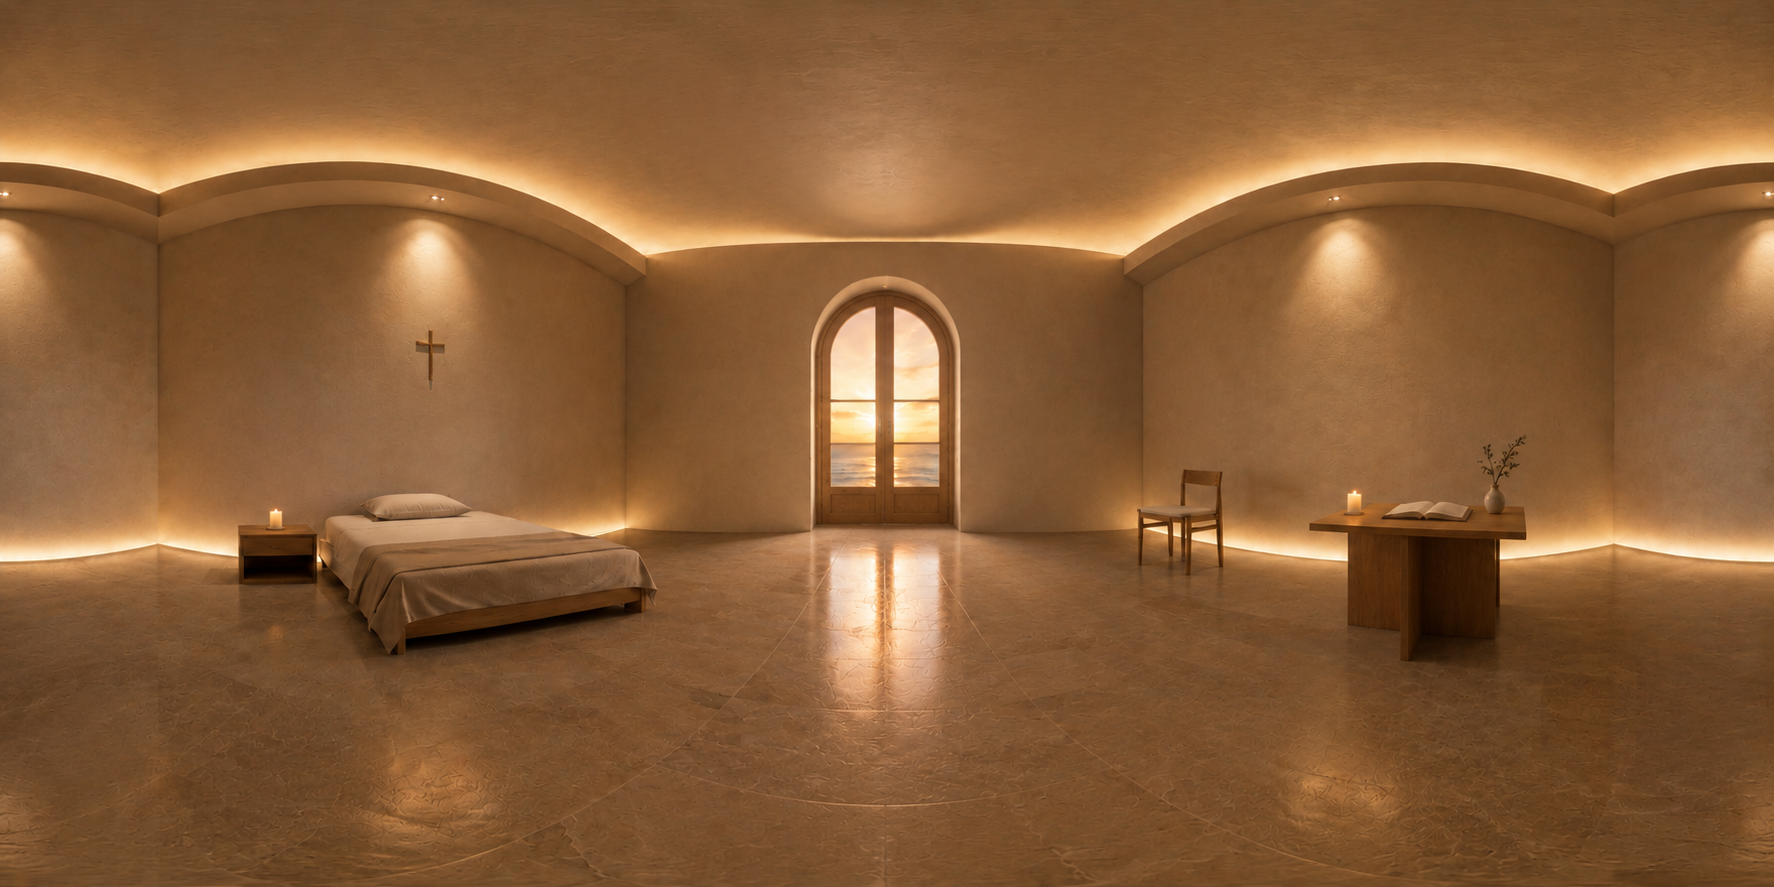
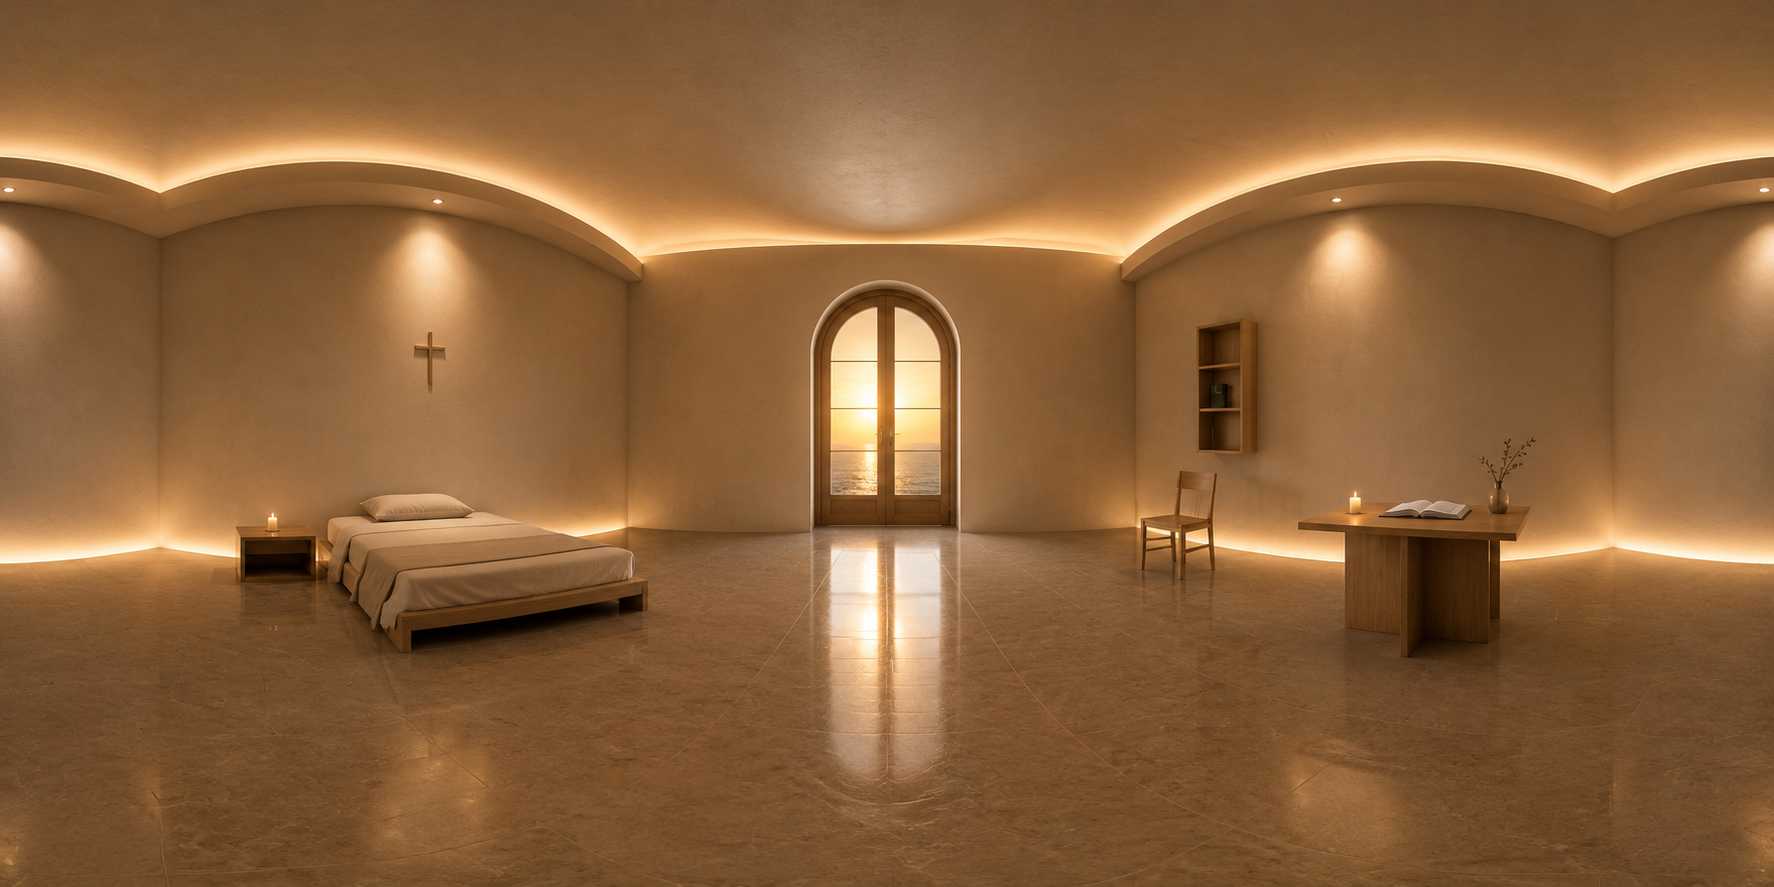
Add room catechism hotspot and rosary guide

diff --git a/src/pages/RosaryPage.tsx b/src/pages/RosaryPage.tsx
@@ -5,20 +5,93 @@ import ScreenContainer from '../components/ScreenContainer'
 import { SoftCard } from '../components/SoftCard'
 import { PrimaryButton } from '../components/PrimaryButton'
 
+type MysterySetKey = 'joyful' | 'sorrowful' | 'glorious' | 'luminous'
+
+const MYSTERY_SETS: Record<
+  MysterySetKey,
+  {
+    title: string
+    dayLabel: string
+    mysteries: string[]
+  }
+> = {
+  joyful: {
+    title: 'Joyful Mysteries',
+    dayLabel: 'Monday and Saturday',
+    mysteries: [
+      'The Annunciation',
+      'The Visitation',
+      'The Nativity',
+      'The Presentation',
+      'The Finding of Jesus in the Temple',
+    ],
+  },
+  sorrowful: {
+    title: 'Sorrowful Mysteries',
+    dayLabel: 'Tuesday and Friday',
+    mysteries: [
+      'The Agony in the Garden',
+      'The Scourging at the Pillar',
+      'The Crowning with Thorns',
+      'The Carrying of the Cross',
+      'The Crucifixion',
+    ],
+  },
+  glorious: {
+    title: 'Glorious Mysteries',
+    dayLabel: 'Wednesday and Sunday',
+    mysteries: [
+      'The Resurrection',
+      'The Ascension',
+      'The Descent of the Holy Spirit',
+      'The Assumption of Mary',
+      'The Coronation of Mary',
+    ],
+  },
+  luminous: {
+    title: 'Luminous Mysteries',
+    dayLabel: 'Thursday',
+    mysteries: [
+      'The Baptism of Jesus',
+      'The Wedding at Cana',
+      'The Proclamation of the Kingdom',
+      'The Transfiguration',
+      'The Institution of the Eucharist',
+    ],
+  },
+}
+
 const ROSARY_STEPS = [
-  'Begin with the Sign of the Cross.',
-  'Offer the intention of your prayer.',
+  'Make the Sign of the Cross and offer your intention.',
   'Pray the Apostles’ Creed.',
-  'Say the Our Father.',
-  'Pray three Hail Marys.',
-  'Announce the first mystery and continue.',
+  'Pray the Our Father.',
+  'Pray three Hail Marys for faith, hope, and charity.',
+  'Pray the Glory Be.',
+  'Pray the first decade with its mystery.',
+  'Continue through the remaining decades.',
+  'Conclude with the Hail Holy Queen and final prayers.',
 ]
+
+const OPENING_PRAYERS = ['Sign of the Cross', 'Apostles’ Creed', 'Our Father', 'Three Hail Marys', 'Glory Be']
+const CLOSING_PRAYERS = ['Hail Holy Queen', 'Final prayer for the Church and the faithful departed', 'Sign of the Cross']
+
+function getMysterySetForToday(): MysterySetKey {
+  const day = new Date().getDay()
+  if (day === 1 || day === 6) return 'joyful'
+  if (day === 2 || day === 5) return 'sorrowful'
+  if (day === 3 || day === 0) return 'glorious'
+  return 'luminous'
+}
 
 export default function RosaryPage() {
   const navigate = useNavigate()
   const [step, setStep] = useState(0)
+  const [mysterySet, setMysterySet] = useState<MysterySetKey>(getMysterySetForToday())
 
   const stepText = useMemo(() => ROSARY_STEPS[Math.min(step, ROSARY_STEPS.length - 1)], [step])
+  const activeMysteries = MYSTERY_SETS[mysterySet]
+  const decadeNumber = Math.min(Math.max(step - 5, 0), 4)
+  const activeMystery = activeMysteries.mysteries[decadeNumber]
 
   return (
     <ScreenContainer>
@@ -45,14 +118,63 @@ export default function RosaryPage() {
           <div className="mt-5 space-y-2 text-center">
             <h1 className="serif text-2xl tracking-wide text-[#e7cba9]">Rosary</h1>
             <p className="mx-auto max-w-xs text-sm leading-6 text-[#c6a47a]">
-              A simple prayer guide you can step through at your own pace.
+              A full guided rosary with the day-based mystery sets and the core prayer flow.
             </p>
           </div>
 
           <SoftCard className="mt-8 space-y-4">
             <div className="space-y-2">
-              <p className="text-xs uppercase tracking-[0.28em] text-white/45">Step {step + 1}</p>
+              <p className="text-xs uppercase tracking-[0.28em] text-white/45">Choose Mysteries</p>
+              <div className="grid grid-cols-2 gap-2">
+                {(Object.keys(MYSTERY_SETS) as MysterySetKey[]).map((key) => {
+                  const set = MYSTERY_SETS[key]
+                  const isActive = mysterySet === key
+
+                  return (
+                    <button
+                      key={key}
+                      type="button"
+                      onClick={() => {
+                        setMysterySet(key)
+                        setStep(5)
+                      }}
+                      className={`rounded-2xl border px-3 py-3 text-left transition ${
+                        isActive
+                          ? 'border-[#e7cba9]/40 bg-[#e7cba9]/10 text-[#e7cba9]'
+                          : 'border-white/10 bg-white/5 text-white/75 hover:bg-white/10'
+                      }`}
+                    >
+                      <div className="serif text-base">{set.title}</div>
+                      <div className="mt-1 text-[11px] uppercase tracking-[0.2em] text-white/45">{set.dayLabel}</div>
+                    </button>
+                  )
+                })}
+              </div>
+            </div>
+
+            <div className="rounded-2xl border border-white/10 bg-white/5 p-4">
+              <p className="text-xs uppercase tracking-[0.28em] text-white/45">Today&apos;s Suggestion</p>
+              <p className="serif mt-2 text-xl text-white">{activeMysteries.title}</p>
+              <p className="mt-1 text-sm text-white/65">{activeMysteries.dayLabel}</p>
+            </div>
+          </SoftCard>
+
+          <SoftCard className="mt-4 space-y-4">
+            <div className="space-y-2">
+              <p className="text-xs uppercase tracking-[0.28em] text-white/45">
+                Step {step + 1} of {ROSARY_STEPS.length}
+              </p>
               <p className="serif text-2xl text-white">{stepText}</p>
+              {step === 5 ? (
+                <p className="text-sm leading-6 text-white/65">
+                  Pray the first decade while meditating on {activeMystery}.
+                </p>
+              ) : null}
+              {step > 5 && step < 10 ? (
+                <p className="text-sm leading-6 text-white/65">
+                  Pray decade {decadeNumber + 1} with {activeMystery}.
+                </p>
+              ) : null}
             </div>
 
             <div className="flex gap-3">
@@ -69,13 +191,46 @@ export default function RosaryPage() {
               >
                 Next
               </PrimaryButton>
+              <PrimaryButton onClick={() => setStep(0)} className="flex-1">
+                Restart
+              </PrimaryButton>
             </div>
           </SoftCard>
 
-          <div className="mt-4 rounded-3xl border border-white/10 bg-white/[0.05] p-5 backdrop-blur-xl shadow-soft">
-            <p className="text-sm leading-7 text-white/70">
-              Keep going at your own pace. This page can later be expanded with mysteries, meditations, and audio.
-            </p>
+          <div className="mt-4 space-y-4 rounded-3xl border border-white/10 bg-white/[0.05] p-5 backdrop-blur-xl shadow-soft">
+            <div className="space-y-2">
+              <p className="text-xs uppercase tracking-[0.28em] text-white/45">Opening Prayers</p>
+              <div className="space-y-2">
+                {OPENING_PRAYERS.map((prayer) => (
+                  <div key={prayer} className="rounded-2xl border border-white/10 bg-white/5 px-4 py-3 text-sm text-white/75">
+                    {prayer}
+                  </div>
+                ))}
+              </div>
+            </div>
+
+            <div className="space-y-2">
+              <p className="text-xs uppercase tracking-[0.28em] text-white/45">Mysteries</p>
+              <div className="grid gap-2">
+                {activeMysteries.mysteries.map((mystery, index) => (
+                  <div key={mystery} className="rounded-2xl border border-white/10 bg-white/5 px-4 py-3">
+                    <p className="text-xs uppercase tracking-[0.2em] text-white/45">Decade {index + 1}</p>
+                    <p className="serif text-lg text-white">{mystery}</p>
+                  </div>
+                ))}
+              </div>
+            </div>
+
+            <div className="space-y-2">
+              <p className="text-xs uppercase tracking-[0.28em] text-white/45">Closing Prayers</p>
+              <div className="space-y-2">
+                {CLOSING_PRAYERS.map((prayer) => (
+                  <div key={prayer} className="rounded-2xl border border-white/10 bg-white/5 px-4 py-3 text-sm text-white/75">
+                    {prayer}
+                  </div>
+                ))}
+              </div>
+            </div>
           </div>
 
           <div className="mt-auto pt-6">

diff --git a/src/pages/RoomPage.tsx b/src/pages/RoomPage.tsx
@@ -7,6 +7,7 @@ import ScreenContainer from '../components/ScreenContainer'
 export default function RoomPage() {
   const mountRef = useRef<HTMLDivElement | null>(null)
   const navigate = useNavigate()
+  const catechismUrl = 'https://www.vatican.va/archive/ENG0015/_INDEX.HTM'
 
   useEffect(() => {
     const previousBodyOverflow = document.body.style.overflow
@@ -163,6 +164,16 @@ export default function RoomPage() {
         title="Bible"
         className="absolute left-[60%] top-[64%] z-20 h-28 w-28 -translate-x-1/2 -translate-y-1/2 rounded-full bg-transparent"
       />
+
+      <button
+        type="button"
+        onClick={() => window.open(catechismUrl, '_blank', 'noopener,noreferrer')}
+        aria-label="Catechism of the Catholic Church hotspot"
+        title="Catechism of the Catholic Church"
+        className="absolute left-[78%] top-[39%] z-20 h-36 w-24 -translate-x-1/2 -translate-y-1/2 rounded-xl bg-transparent"
+      >
+        <span className="sr-only">Catechism of the Catholic Church</span>
+      </button>
 
       <div className="pointer-events-none relative flex h-full flex-col px-6 py-10 pb-28">
         <motion.div

diff --git a/src/pages/PrayerPage.tsx b/src/pages/PrayerPage.tsx
@@ -29,12 +29,12 @@ function PrayerIndex() {
     <ScreenContainer>
       <div className="absolute inset-0 bg-[url('/candle.png')] bg-cover bg-center opacity-[0.03]" />
       <div className="absolute inset-0 bg-[radial-gradient(circle_at_50%_20%,rgba(255,236,199,0.12),transparent_28%),linear-gradient(180deg,rgba(15,12,9,0.08),rgba(15,12,9,0.5))]" />
-      <div className="relative flex h-full flex-col px-6 py-10">
+      <div className="relative flex h-full flex-col overflow-y-auto px-6 py-10 pb-32">
         <motion.div
           initial={{ opacity: 0, y: 10 }}
           animate={{ opacity: 1, y: 0 }}
           transition={{ duration: 1.2, ease: 'easeOut' }}
-          className="flex h-full flex-col"
+          className="flex min-h-full flex-col"
         >
           <div className="space-y-2 text-center pt-2">
             <h1 className="serif text-2xl tracking-wide text-[#e7cba9]">Prayer</h1>
@@ -97,7 +97,7 @@ function PrayerIndex() {
             </SoftCard>
           )}
 
-          <p className="mt-auto pt-6 text-center text-xs text-[#8c7a65]">You can return at any time.</p>
+          <p className="mt-8 pb-4 text-center text-xs text-[#8c7a65]">You can return at any time.</p>
         </motion.div>
       </div>
     </ScreenContainer>